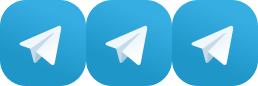
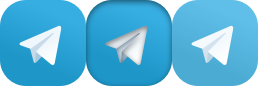
add Kopatich and new buttons

diff --git a/src/scenes/RatingTableScene.js b/src/scenes/RatingTableScene.js
@@ -10,10 +10,6 @@ export default class RatingTableScene extends Phaser.Scene {
      
     }
 
-    wake() {
-        console.log("WAKE");
-    }
-
     create() {
         this.mainScene.events.on('onRatingRecived', this._reciveTableHandler, this);
         this.add.image(500, 800, 'rating');
